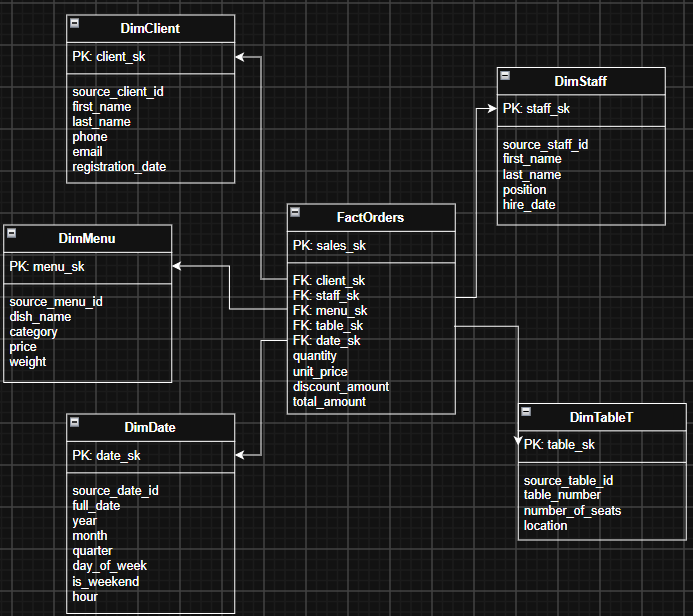
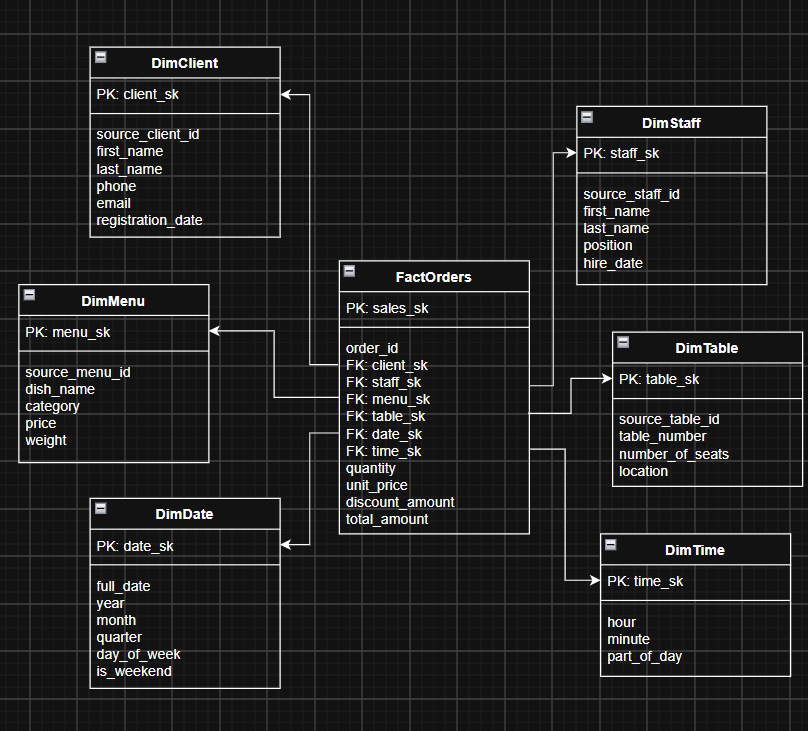
Made corrections to DWH

Changed region(s): [[0.0, 0.0, 1.0, 1.0]]

diff --git a/Homework 5/Homework5.md b/Homework 5/Homework5.md
@@ -6,70 +6,120 @@
 **Система бронирования в ресторане**
 
 1. Процесс выполнения заказов
-	Клиент бронирует столик, приходит, делает заказ, после оплачивает.
-	Клиент - Бронирует - Приходит - заказывает - оплачивает
+	бизнес-процесс: "Анализ заказов ресторана" 
+	Клиент - Заказ - Позиции в заказе - Сотрудник - Столик - Дата/Время
+	Интересующие вопросы:
+	- Какой средний чек ?
+	- Кто из сотрудников приносит больше выручки ?
+	- Какие блюда продаются лучше всего?
+	- В какие дни и часы происходит пик заказов ?
 
-2. GRAIN = одна запись в чеке
-	Один клиент(CkientID), Один столик(TableID), Один сотрудник(StaffID), Один заказ(OrderID), Один товар(MenuID), Количество (Quantity), Цена на момент заказа (PriceAtOrderTime)
+2. GRAIN 
+	Одна запись в факте = одна строка в чеке (одна позиция в заказе)
+	Один клиент (source_client_id),
+	Один столик (source_table_id),
+	Один сотрудник (source_staff_id),
+	Один заказ (order_id),
+	Один товар (source_menu_id),
+	Количество (Quantity),
+	Цена на момент заказа (UnitPrice)
 
 3. Dimenshion Tables
-	- DimClient (ClientKey (PK), ClientID, FirstName, LastName, Phone, Email, RegistrationDate)
-	- DimStaff (StaffKey (PK), StaffID, FirstName, LastName, Position, HireDate)
-	- DimMenu (MenuKey (PK), MenuID, DishName, Category, Price, Weight)
-	- DimTable (TableKey (PK), RTableID, TableNumber, NumberOfSeats, Location (зал))
-	- DimDate (DateKey (PK), FullDate, Year, Month, Quarter, DayOfWeek, IsWeekend, Hour)
+	- DimClient (client_sk (PK), source_client_id, first_name, last_name, phone, email, registration_date) - использую для анализа заказов по клиентам, это поможет определить какие клиенты чаще совершают заказы и какую выручку они формируют
+	- DimStaff (staff_sk (PK), source_staff_id, first_name, last_name, position, hire_date) - использую для анализа эффективности сотрудников, показывает какие сотрудники больше заказов обслуживает
+	- DimMenu (menu_sk (PK), source_menu_id, dish_name, category, price, weight) - использую для анализа популярности блюд, показывает популярность блюд и выручку по отдельным блюдам
+	- DimTable (table_sk (PK), source_table_id, table_number, number_of_seats, location (зал)) - использую для анализа заказов в зависимости от столика, где он находится и сколько человек может вместить
+	- DimDate (date_sk (PK), full_date, year, month, quarter, day_of_week, is_weekend) - использую для анализа заказов по датам, дням недели, месяцам, кварталам, и определение периодов с наибольшей активностью
+	- DimTime (time_sk (PK), hour, minute, part_of_day) - используется для анализа заказов по часам и по деление суток, позволяет определить на какой час приходился пик заказов
 
 4. Fact Tables
 	- sales_sk SERIAL (PK) Уникальный ID записи в хранилище
+	- order_id INTEGER ID заказа из операционной системы
 	- client_sk INTEGER (FK - DimClient) Кто заказал
 	- staff_sk INTEGER (FK - DimStaff) Кто обслуживал
 	- menu_sk INTEGER (FK - DimMenu) Что заказали
 	- table_sk INTEGER (FK - DimTable) За каким столиком
 	- date_sk INTEGER (FK - DimDate) Когда был сделан заказ
-	- Quantity INTEGER Количество порций
-	- UnitPrice DECIMAL(10,2) Цена одной порции на момент заказа
-	- DiscountAmount DECIMAL(10,2) Скидка (если была)
-	- TotalAmount DECIMAL(10,2) Итоговая сумма (Quantity × UnitPrice - DiscountAmount)
+	- time_sk INTEGER (FK - DimTime) Время заказа
+	- Quantity INTEGER Показывает количество проданных порций и используется для популярности блюд
+	- UnitPrice DECIMAL(10,2) Цена одной порции на момент заказа, так как цена может изменится 
+	- DiscountAmount DECIMAL(10,2) Показывает размер предоставленной скидка (если была) 
+	- TotalAmount DECIMAL(10,2) Итоговая сумма, использую для расчета выручки и среднего чека
 
 5. Физическая модель
 	Star схема
-	![[Pasted image 20260820215609.png]]
+	![[Pasted image 20260824124319.png]]
 
 6. Аналитические запросы SQL
 ```sql
 
 
 
---Выручка по дням недели (В какие дни недели ресторан больше зарабатывает)
+/*Average customer check. 
+Question: What is the average customer check?*/
 SELECT 
-    DimDate.DayOfWeek,
-    COUNT(DISTINCT FactOrders.OrderID) AS OrdersCount,
-    SUM(FactOrders.TotalAmount) AS TotalRevenue
+    AVG(OrderTotals.OrderTotal) AS AverageCheck
+FROM (
+    SELECT
+        FactOrders.order_id,
+        SUM(FactOrders.total_amount) AS OrderTotal
+    FROM FactOrders
+    GROUP BY FactOrders.order_id
+) AS OrderTotals;
+
+
+/*Employee performance.
+Question: Which employee generates the highest revenue?*/
+SELECT 
+    CONCAT(DimStaff.first_name, ' ', DimStaff.last_name) AS StaffName,
+    DimStaff.position,
+    COUNT(DISTINCT FactOrders.order_id) AS OrdersServed,
+    SUM(FactOrders.total_amount) AS TotalRevenue
 FROM FactOrders
-JOIN DimDate ON FactOrders.DateID = DimDate.DateID
-GROUP BY DimDate.DayOfWeek
+JOIN DimStaff ON FactOrders.staff_sk = DimStaff.staff_sk
+GROUP BY 
+    DimStaff.staff_sk,
+    DimStaff.first_name,
+    DimStaff.last_name,
+    DimStaff.position
 ORDER BY TotalRevenue DESC;
 
---Работа сотрудников (какой сотрудник приносит больше выручки)
-SELECT 
-    CONCAT(DimStaff.FirstName, ' ', DimStaff.LastName) AS StaffName,
-    DimStaff.Position,
-    COUNT(DISTINCT FactOrders.OrderID) AS OrdersServed,
-    SUM(FactOrders.TotalAmount) AS TotalRevenue
-FROM FactOrders
-JOIN DimStaff ON FactOrders.StaffID = DimStaff.StaffID
-GROUP BY DimStaff.StaffID, DimStaff.FirstName, DimStaff.LastName, DimStaff.Position
-ORDER BY TotalRevenue DESC;
 
---Средний чек по часам (В какое время суток люди больше заказывают)
+/*Dish popularity.
+Question: Which dishes are sold most frequently?*/
+
 SELECT 
-    DimDate.Hour,
-    AVG(FactOrders.TotalAmount) AS AvgCheck,
-    COUNT(DISTINCT FactOrders.OrderID) AS OrdersCount
+    DimMenu.dish_name AS DishName,
+    DimMenu.category AS Category,
+    SUM(FactOrders.quantity) AS QuantitySold,
+    SUM(FactOrders.total_amount) AS TotalRevenue
 FROM FactOrders
-JOIN DimDate ON FactOrders.DateID = DimDate.DateID
-GROUP BY DimDate.Hour
-ORDER BY AvgCheck DESC;
+JOIN DimMenu  ON FactOrders.menu_sk = DimMenu.menu_sk
+GROUP BY 
+    DimMenu.menu_sk,
+    DimMenu.dish_name,
+    DimMenu.category
+ORDER BY QuantitySold DESC;
+
+
+/*Peak order periods.
+Question: On which days and at which hours is the number of orders the highest?*/
+SELECT 
+    DimDate.day_of_week AS DayOfWeek,
+    DimTime.hour AS Hour,
+    COUNT(DISTINCT FactOrders.order_id) AS OrdersCount,
+    SUM(FactOrders.total_amount) AS TotalRevenue
+FROM FactOrders
+JOIN DimDate ON FactOrders.date_sk = DimDate.date_sk
+JOIN DimTime ON FactOrders.time_sk = DimTime.time_sk
+GROUP BY 
+    DimDate.day_of_week,
+    DimTime.hour
+ORDER BY OrdersCount DESC;
+
 
 
 ```
+
+
+
